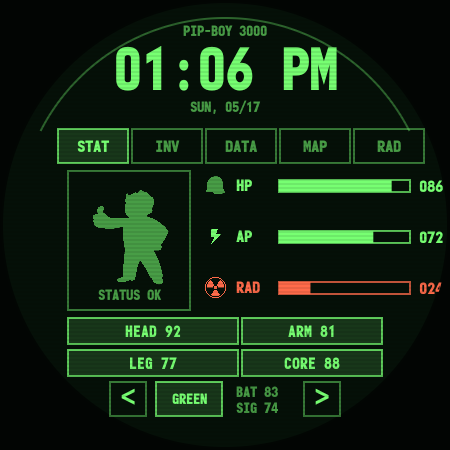
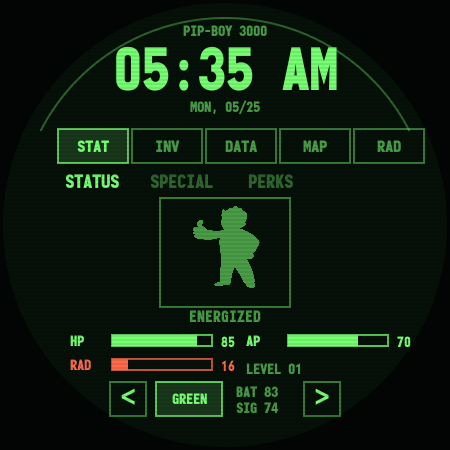
Use classic Pip-Boy stat subpages

diff --git a/watchface/watchface/src/main/java/com/megazegan/vaultwatch/face/TerminalActivity.java b/watchface/watchface/src/main/java/com/megazegan/vaultwatch/face/TerminalActivity.java
@@ -96,7 +96,8 @@ public class TerminalActivity extends Activity {
     }
 
     private static final class PipBoyTerminalView extends View {
-        private static final String[] TABS = {"STAT", "INV", "DATA", "MAP", "RAD", "COM", "SYS", "SEC", "SURV", "WX"};
+        private static final String[] TABS = {"STAT", "INV", "DATA", "MAP", "RAD"};
+        private static final String[] STAT_TABS = {"STATUS", "SPECIAL", "PERKS"};
         private static final String[] THEMES = {"GREEN", "AMBER", "BLUE"};
         private static final String[] ITEM_NAMES = {
                 "SPOTIFY RELAY", "TIMER FUSE", "ALARM BEACON", "FLASH MODULE",
@@ -160,6 +161,7 @@ public class TerminalActivity extends Activity {
         private final Bitmap pipMap;
         private Typeface font = Typeface.MONOSPACE;
         private int section;
+        private int statPage;
         private int selectedInventory;
         private int selectedData;
         private int selectedStation;
@@ -264,23 +266,8 @@ public class TerminalActivity extends Activity {
                 case 4:
                     drawRadio(canvas);
                     break;
-                case 5:
-                    drawComms(canvas);
-                    break;
-                case 6:
-                    drawSystem(canvas);
-                    break;
-                case 7:
-                    drawSecurity(canvas);
-                    break;
-                case 8:
-                    drawSurvival(canvas);
-                    break;
-                case 9:
-                    drawWeather(canvas);
-                    break;
                 default:
-                    drawStatus(canvas);
+                    drawStat(canvas);
                     break;
             }
             drawFooter(canvas);
@@ -298,10 +285,18 @@ public class TerminalActivity extends Activity {
             float x = (event.getX() - (getWidth() - size) / 2f) * 450f / size;
             float y = (event.getY() - (getHeight() - size) / 2f) * 450f / size;
             if (y >= 128 && y <= 166) {
-                int visibleStart = visibleTabStart();
-                int next = visibleStart + Math.max(0, Math.min(4, (int) ((x - 58) / 74f)));
-                next = Math.max(0, Math.min(TABS.length - 1, next));
+                int next = Math.max(0, Math.min(TABS.length - 1, (int) ((x - 58) / 74f)));
                 goToSection(next);
+                return true;
+            }
+            if (section == 0 && y >= 168 && y <= 198) {
+                statPage = Math.max(0, Math.min(2, (int) ((x - 92) / 89f)));
+                invalidate();
+                return true;
+            }
+            if (section == 0 && statPage > 0 && x >= 72 && x <= 378 && y >= 198 && y <= 378) {
+                selectedAux = Math.max(0, Math.min(statPage == 1 ? 6 : 5, (int) ((y - 198) / (statPage == 1 ? 22f : 27f))));
+                invalidate();
                 return true;
             }
             if (section == 1 && x >= 68 && x <= 228 && y >= 175 && y <= 343) {
@@ -322,12 +317,6 @@ public class TerminalActivity extends Activity {
                 selectedStation = Math.max(0, Math.min(2, (int) ((y - 262) / 40f)));
                 invalidate();
                 launchPackage("com.spotify.music");
-                return true;
-            }
-            if (section >= 5 && x >= 72 && x <= 378 && y >= 176 && y <= 340) {
-                selectedAux = Math.max(0, Math.min(3, (int) ((y - 176) / 40f)));
-                randomizeAuxiliarySignal();
-                invalidate();
                 return true;
             }
             if (y >= 374 && y <= 425) {
@@ -360,45 +349,80 @@ public class TerminalActivity extends Activity {
 
         private void drawTabs(Canvas canvas) {
             paint.setStrokeWidth(1.5f);
-            int visibleStart = visibleTabStart();
-            for (int i = 0; i < 5; i++) {
-                int tabIndex = visibleStart + i;
+            for (int i = 0; i < TABS.length; i++) {
                 float left = 58 + i * 74f;
                 rect.set(left, 129, left + 70, 163);
                 paint.setStyle(Paint.Style.FILL);
-                paint.setColor(tabIndex == section ? faint : Color.TRANSPARENT);
+                paint.setColor(i == section ? faint : Color.TRANSPARENT);
                 canvas.drawRect(rect, paint);
                 paint.setStyle(Paint.Style.STROKE);
-                paint.setColor(tabIndex == section ? text : dim);
+                paint.setColor(i == section ? text : dim);
                 canvas.drawRect(rect, paint);
-                text(canvas, TABS[tabIndex], left + 35, 152, 16, tabIndex == section ? text : dim, Paint.Align.CENTER);
+                text(canvas, TABS[i], left + 35, 152, 16, i == section ? text : dim, Paint.Align.CENTER);
             }
-            if (visibleStart > 0) text(canvas, "<", 42, 152, 18, dim, Paint.Align.CENTER);
-            if (visibleStart + 5 < TABS.length) text(canvas, ">", 408, 152, 18, dim, Paint.Align.CENTER);
         }
 
-        private int visibleTabStart() {
-            return Math.min(Math.max(0, section - 2), TABS.length - 5);
+        private void drawStat(Canvas canvas) {
+            drawStatSubTabs(canvas);
+            if (statPage == 1) {
+                drawSpecial(canvas);
+            } else if (statPage == 2) {
+                drawPerks(canvas);
+            } else {
+                drawStatus(canvas);
+            }
+        }
+
+        private void drawStatSubTabs(Canvas canvas) {
+            for (int i = 0; i < STAT_TABS.length; i++) {
+                float x = 92 + i * 89f;
+                text(canvas, STAT_TABS[i], x, 188, 18, i == statPage ? text : Color.argb(92, 119, 255, 114), Paint.Align.CENTER);
+            }
         }
 
         private void drawStatus(Canvas canvas) {
-            rect.set(68, 171, 190, 310);
+            rect.set(160, 198, 290, 307);
             box(canvas, rect, false);
             long phase = System.currentTimeMillis() % 1400L;
             float wave = (float) Math.sin((phase / 1400f) * Math.PI * 2f);
             float bob = wave * 3f;
             float pulse = 1f + wave * 0.035f;
-            drawBitmap(canvas, vaultBoy, 91 - (76 * (pulse - 1f) / 2f), 186 + bob, 76 * pulse, 92 * pulse, text);
-            text(canvas, activeEffect, 129, 300, 12, dim, Paint.Align.CENTER);
-            meter(canvas, helmet, "HP", 205, 188, hp, text);
-            meter(canvas, bolt, "AP", 205, 239, ap, text);
-            meter(canvas, rad, "RAD", 205, 290, radiation, Color.rgb(255, 107, 74));
-            statBox(canvas, "HR " + heartRate, 68, 318, 74);
-            statBox(canvas, "O2 " + oxygen, 146, 318, 74);
-            statBox(canvas, "H2O " + hydration, 224, 318, 74);
-            statBox(canvas, "SLP " + sleepScore, 302, 318, 80);
-            text(canvas, "S " + special[0] + "  P " + special[1] + "  E " + special[2] + "  C " + special[3], 225, 363, 14, dim, Paint.Align.CENTER);
-            text(canvas, "I " + special[4] + "  A " + special[5] + "  L " + special[6] + "  FAT " + (100 - ap), 225, 379, 14, dim, Paint.Align.CENTER);
+            drawBitmap(canvas, vaultBoy, 189 - (72 * (pulse - 1f) / 2f), 208 + bob, 72 * pulse, 86 * pulse, text);
+            text(canvas, activeEffect, 225, 322, 15, dim, Paint.Align.CENTER);
+            compactMeter(canvas, "HP", 70, 346, hp, text);
+            compactMeter(canvas, "AP", 246, 346, ap, text);
+            compactMeter(canvas, "RAD", 70, 370, radiation, Color.rgb(255, 107, 74));
+            text(canvas, "LEVEL 01", 246, 374, 14, dim, Paint.Align.LEFT);
+        }
+
+        private void drawSpecial(Canvas canvas) {
+            String[] labels = {"STRENGTH", "PERCEPTION", "ENDURANCE", "CHARISMA", "INTELLIGENCE", "AGILITY", "LUCK"};
+            for (int i = 0; i < labels.length; i++) {
+                float y = 205 + i * 22f;
+                text(canvas, labels[i], 72, y, 14, i == selectedAux ? text : dim, Paint.Align.LEFT);
+                compactValueBar(canvas, 198, y - 10, special[i], 10);
+                text(canvas, String.valueOf(special[i]), 350, y, 14, text, Paint.Align.RIGHT);
+            }
+            rect.set(72, 356, 378, 378);
+            box(canvas, rect, true);
+            text(canvas, "HR " + heartRate + "  O2 " + oxygen + "  H2O " + hydration + "  SLP " + sleepScore, 225, 372, 13, text, Paint.Align.CENTER);
+        }
+
+        private void drawPerks(Canvas canvas) {
+            String[] perks = {
+                    activeEffect,
+                    "STEPS " + steps + "/6000",
+                    "STRESS " + stress + "%",
+                    "TEMP " + tempSim + "C",
+                    "RAM " + ramUse + "%  CORE " + cpuTemp + "C",
+                    "WX " + weatherStatus
+            };
+            for (int i = 0; i < perks.length; i++) {
+                rect.set(72, 202 + i * 27, 378, 224 + i * 27);
+                box(canvas, rect, i == selectedAux);
+                text(canvas, perks[i], 88, 218 + i * 27, 13, i == selectedAux ? text : dim, Paint.Align.LEFT);
+            }
+            text(canvas, "PERK CHART", 225, 374, 16, text, Paint.Align.CENTER);
         }
 
         private void drawInventory(Canvas canvas) {
@@ -573,7 +597,10 @@ public class TerminalActivity extends Activity {
         }
 
         private void stepWithinSection(int direction) {
-            if (section == 1) {
+            if (section == 0) {
+                statPage = (statPage + direction + STAT_TABS.length) % STAT_TABS.length;
+                invalidate();
+            } else if (section == 1) {
                 selectedInventory = (selectedInventory + direction + 4) % 4;
                 invalidate();
             } else if (section == 2) {
@@ -728,6 +755,31 @@ public class TerminalActivity extends Activity {
             rect.set(x + 72, y - 8, x + 72 + 148 * value / 100f, y + 4);
             canvas.drawRect(rect, paint);
             text(canvas, String.format(Locale.US, "%03d", value), x + 238, y + 4, 13, color, Paint.Align.LEFT);
+        }
+
+        private void compactMeter(Canvas canvas, String label, float x, float y, int value, int color) {
+            text(canvas, label, x, y, 14, color, Paint.Align.LEFT);
+            paint.setStyle(Paint.Style.STROKE);
+            paint.setStrokeWidth(1.5f);
+            paint.setColor(color);
+            rect.set(x + 42, y - 11, x + 142, y);
+            canvas.drawRect(rect, paint);
+            paint.setStyle(Paint.Style.FILL);
+            rect.set(x + 42, y - 11, x + 42 + value, y);
+            canvas.drawRect(rect, paint);
+            text(canvas, String.format(Locale.US, "%02d", value), x + 151, y + 1, 13, color, Paint.Align.LEFT);
+        }
+
+        private void compactValueBar(Canvas canvas, float x, float y, int value, int max) {
+            paint.setStyle(Paint.Style.STROKE);
+            paint.setStrokeWidth(1.3f);
+            paint.setColor(dim);
+            rect.set(x, y, x + 125, y + 9);
+            canvas.drawRect(rect, paint);
+            paint.setStyle(Paint.Style.FILL);
+            paint.setColor(text);
+            rect.set(x, y, x + 125 * value / max, y + 9);
+            canvas.drawRect(rect, paint);
         }
 
         private void statBox(Canvas canvas, String label, float x, float y, float width) {

diff --git a/README.md b/README.md
@@ -6,34 +6,32 @@ This is a fan-made portfolio project by Mustafa Ugur Erkan / MegaZegan. It focus
 
 ## Screenshots
 
-| STAT | INV | DATA |
+| STAT / STATUS | STAT / SPECIAL | STAT / PERKS |
 | --- | --- | --- |
-| ![Galaxy Watch 4 STAT screen](docs/screenshots/watch4-status.png) | ![Galaxy Watch 4 inventory screen](docs/screenshots/watch4-inventory.png) | ![Galaxy Watch 4 data screen](docs/screenshots/watch4-data.png) |
+| ![Galaxy Watch 4 STAT status screen](docs/screenshots/watch4-status.png) | ![Galaxy Watch 4 STAT special screen](docs/screenshots/watch4-special.png) | ![Galaxy Watch 4 STAT perks screen](docs/screenshots/watch4-perks.png) |
 
-| MAP | RAD |
-| --- | --- |
-| ![Galaxy Watch 4 map screen](docs/screenshots/watch4-map.png) | ![Galaxy Watch 4 radio screen](docs/screenshots/watch4-radio.png) |
+| INV | DATA | MAP |
+| --- | --- | --- |
+| ![Galaxy Watch 4 inventory screen](docs/screenshots/watch4-inventory.png) | ![Galaxy Watch 4 data screen](docs/screenshots/watch4-data.png) | ![Galaxy Watch 4 map screen](docs/screenshots/watch4-map.png) |
 
-| Expanded Pip-OS |
+| RAD |
 | --- |
-| ![Galaxy Watch 4 expanded system screen](docs/screenshots/watch4-v26-system.png) |
+| ![Galaxy Watch 4 radio screen](docs/screenshots/watch4-radio.png) |
 
 ## Galaxy Watch 4 Features
 
 - Native Wear OS APK built for Galaxy Watch 4 / Wear OS round displays.
 - Pip-Boy styled watch face with live time, date, battery, and weather complication text.
 - Interactive terminal app with large touch targets for the watch screen.
-- STAT page with animated Vault Boy, HP/AP/RAD, heart rate, oxygen, hydration, sleep score, fatigue, status effects, and SPECIAL stats.
+- Classic top navigation with `STAT`, `INV`, `DATA`, `MAP`, and `RAD`.
+- STAT uses Pip-Boy style sub-pages: `STATUS`, `SPECIAL`, and `PERKS`.
+- STATUS page keeps the hero Vault Boy layout with HP/AP/RAD and only the most important readouts.
+- SPECIAL page carries the deeper health/survival numbers and SPECIAL bars.
+- PERKS page carries status effects, lifestyle readouts, and system/weather flavor.
 - INV page with randomized Fallout-style utility items, categories, values, and cosmetic carry weight.
 - DATA page with randomized quest names, statuses, and notes.
 - MAP page with an in-app Pip-Boy map, GPS-style readout, speed/altitude simulation, then a button to launch Google Maps.
 - RAD page with in-app radio stations, signal scanner, radio noise flavor, then station taps can launch Spotify.
-- Sliding Pip-OS tab strip with extra COM, SYS, SEC, SURV, and WX utility pages.
-- COM page for notification-style readouts.
-- SYS page for battery/RAM/temperature/storage readouts.
-- SEC page for password generator, QR/NFC/Wi-Fi/ping themed tools.
-- SURV page for water, meds, step goal, and workout reminders.
-- WX page for retro weather terminal information and radiation-style storm warnings.
 - Monofonto terminal typography, scanlines, glow, green/orange radiation accents, and round-screen composition.
 
 The expanded pages are intentionally lightweight. They use simple Canvas drawing, text rows, tiny bitmap icons, low-frequency redraws, and simulated/session data instead of constant GPS, Bluetooth, sensor, or internet polling.

diff --git a/watchface/README.md b/watchface/README.md
@@ -7,7 +7,7 @@ It includes two parts:
 - A Watch Face Format face, shown in the Wear OS face picker as `VaultWatch Face`.
 - A native Android activity, shown as the interactive Pip-Boy terminal app.
 
-The terminal app is designed for Galaxy Watch 4 performance: Canvas/text UI, no WebView runtime, no heavy 3D, no constant GPS scanning, and no background sensor polling. Extra Pip-OS pages include STAT, INV, DATA, MAP, RAD, COM, SYS, SEC, SURV, and WX.
+The terminal app is designed for Galaxy Watch 4 performance: Canvas/text UI, no WebView runtime, no heavy 3D, no constant GPS scanning, and no background sensor polling. The top-level Pip-Boy tabs stay classic and readable: STAT, INV, DATA, MAP, and RAD. STAT contains nested STATUS, SPECIAL, and PERKS sub-pages for the denser wearable readouts.
 
 ## Build
 
